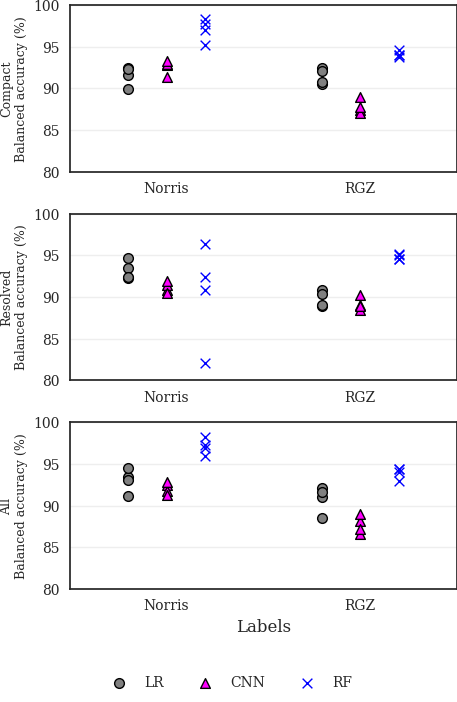
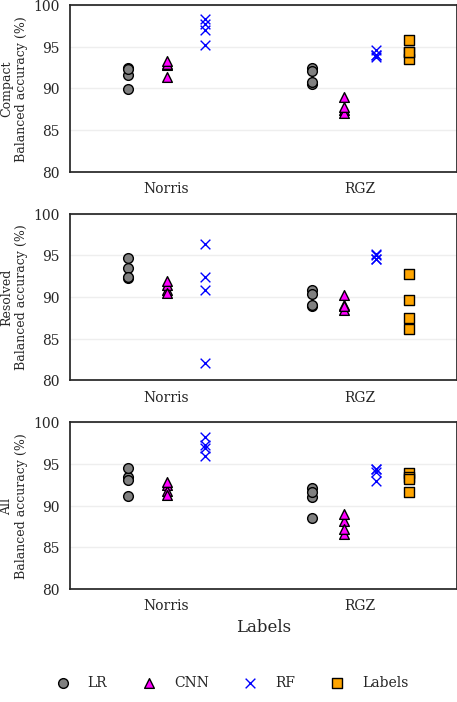
Added RGZ labels to BA grids

diff --git a/ATLAS-CDFS/scripts/plot_grid.py b/ATLAS-CDFS/scripts/plot_grid.py
@@ -19,6 +19,7 @@ from collections import defaultdict
 import itertools
 
 import astropy.table
+from crowdastro.crowd.util import balanced_accuracy
 import matplotlib.pyplot as plt
 import numpy
 
@@ -89,26 +90,47 @@ def plot_grid(field='cdfs'):
         else:
             cnn_rgz_accuracies[dataset_name][predictions.quadrant] = predictions.balanced_accuracy
 
+    if field == 'cdfs':
+        # Load RGZ cross-identifications and compute a balanced accuracy with them.
+        swire_names, swire_coords, _ = pipeline.generate_swire_features(overwrite=False, field=field)
+        swire_labels = pipeline.generate_swire_labels(swire_names, swire_coords, overwrite=False, field=field)
+        (_, atlas_test_sets), (_, swire_test_sets) = pipeline.generate_data_sets(swire_coords, swire_labels, overwrite=False, field=field)
+        label_rgz_accuracies = {sstr: [0] * 4 for sstr in pipeline.SET_NAMES}
+        label_norris_accuracies = {sstr: [1] * 4 for sstr in pipeline.SET_NAMES}  # By definition.
+        for dataset_name in pipeline.SET_NAMES:
+            for quadrant in range(4):
+                test_set = swire_test_sets[:, pipeline.SET_NAMES[dataset_name], quadrant]
+                predictions = swire_labels[test_set, 1]
+                trues = swire_labels[test_set, 0]
+                ba = balanced_accuracy(trues, predictions)
+                label_rgz_accuracies[dataset_name][quadrant] = ba
+
     colours = ['grey', 'magenta', 'blue', 'orange']
     markers = ['o', '^', 'x', 's']
     handles = {}
     plt.figure(figsize=(5, 8))
 
     accuracy_map = defaultdict(lambda: defaultdict(dict))  # For table output.
-    for j, (classifier_name, classifier_set) in enumerate([
-            ('LR', [lr_norris_accuracies, lr_rgz_accuracies]),
-            ('CNN', [cnn_norris_accuracies, cnn_rgz_accuracies]),
-            ('RF', [rf_norris_accuracies, rf_rgz_accuracies]),
-            ]):
+    output_sets = [
+        ('LR', [lr_norris_accuracies, lr_rgz_accuracies]),
+        ('CNN', [cnn_norris_accuracies, cnn_rgz_accuracies]),
+        ('RF', [rf_norris_accuracies, rf_rgz_accuracies]),
+    ]
+    if field == 'cdfs':
+        output_sets.append(('Labels', [label_norris_accuracies, label_rgz_accuracies]))
+    for j, (classifier_name, classifier_set) in enumerate(output_sets):
         for i, set_name in enumerate(norris_labelled_sets):
             ax = plt.subplot(3, 1, 1 + i)
             for k in range(4):
-                handles[j] = ax.scatter([0 + (j - 1) / 5], classifier_set[0][set_name][k] * 100,
-                                        color=colours[j], marker=markers[j], linewidth=1, edgecolor='k')
+                if j != 3:  # !Labels
+                    ax.scatter([0 + (j - 1) / 5], classifier_set[0][set_name][k] * 100,
+                                color=colours[j], marker=markers[j], linewidth=1, edgecolor='k')
+                rgz_offset = ((j - 1.5) / 6) if field == 'cdfs' else (j - 1) / 5
+                handles[j] = ax.scatter([1 + rgz_offset],
+                           classifier_set[1][fullmap[set_name]][k] * 100,
+                           color=colours[j], marker=markers[j], linewidth=1, edgecolor='k')
                 # ax.scatter([1 + (j - 1) / 5], classifier_set[1][set_name][k] * 100,
                 #            color=colours[j], marker=markers[j], linewidth=1, edgecolor='k')
-                ax.scatter([1 + (j - 1) / 5], classifier_set[1][fullmap[set_name]][k] * 100,
-                           color=colours[j], marker=markers[j], linewidth=1, edgecolor='k')
             # Compute for table.
             for labeller in ['Norris', 'RGZ N', 'RGZ']:
                 if labeller == 'Norris':
@@ -151,7 +173,7 @@ def plot_grid(field='cdfs'):
         if labeller == 'RGZ N':
             continue
 
-        for classifier in ['CNN', 'LR', 'RF']:
+        for classifier in ['CNN', 'LR', 'RF'] + ['Labels'] if field == 'cdfs' else []:
             col_labeller.append(labeller)
             col_classifier.append(classifier)
             col_compact.append(accuracy_map[labeller][classifier]['Compact'])
@@ -163,7 +185,7 @@ def plot_grid(field='cdfs'):
                                            "Mean `All' accuracy\\\\(per cent)"])
     out_table.write('../{}_accuracy_table.tex'.format(field), format='latex')
 
-    plt.figlegend([handles[j] for j in sorted(handles)], ['LR', 'CNN', 'RF'], 'lower center', ncol=3, fontsize=10)
+    plt.figlegend([handles[j] for j in sorted(handles)], ['LR', 'CNN', 'RF'] + ['Labels'] if field == 'cdfs' else [], 'lower center', ncol=4, fontsize=10)
     plt.subplots_adjust(bottom=0.15, hspace=0.25)
     plt.savefig('../images/{}_ba_grid.pdf'.format(field),
                 bbox_inches='tight', pad_inches=0)
